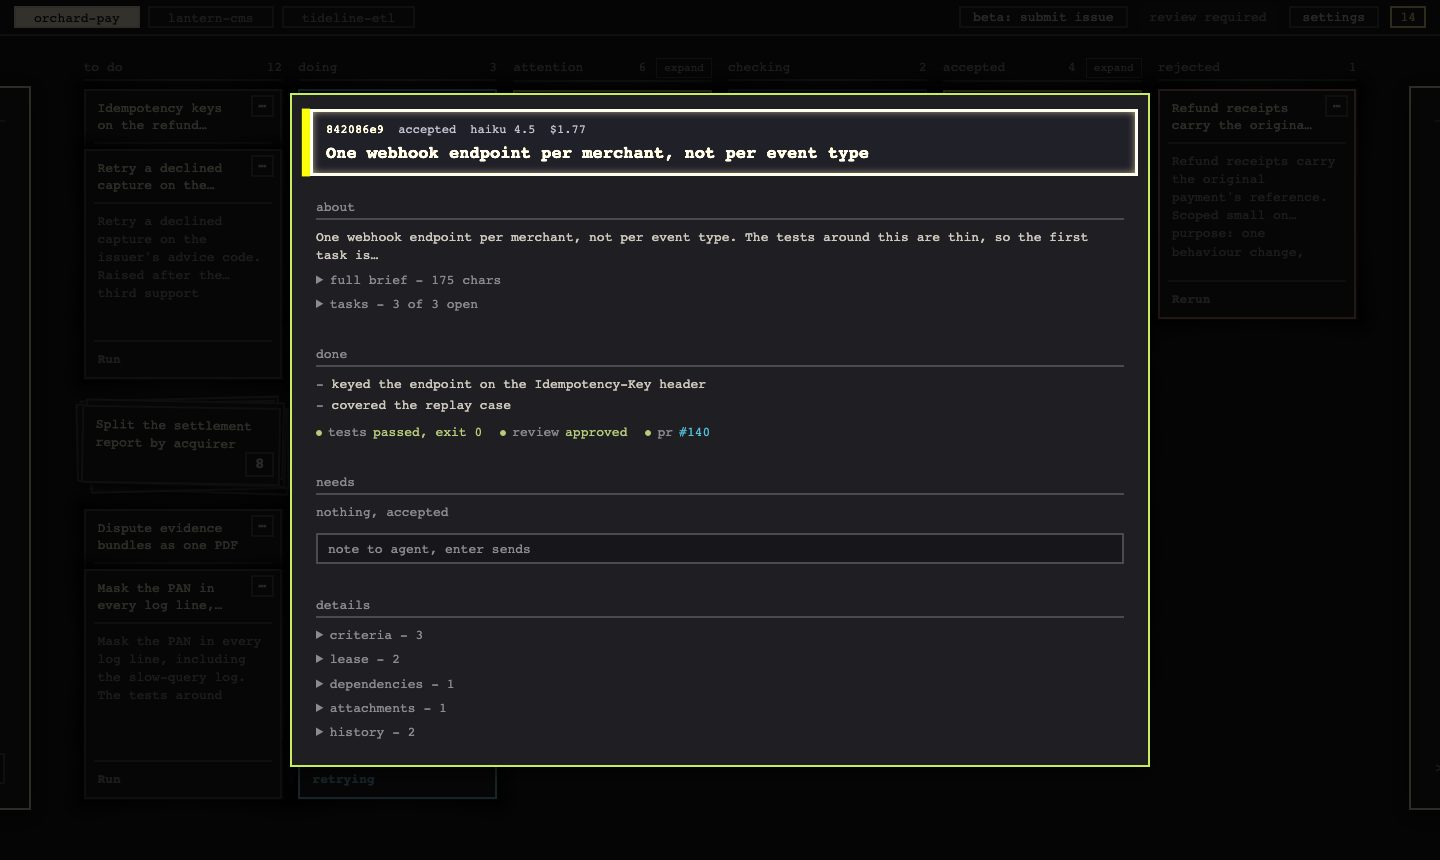
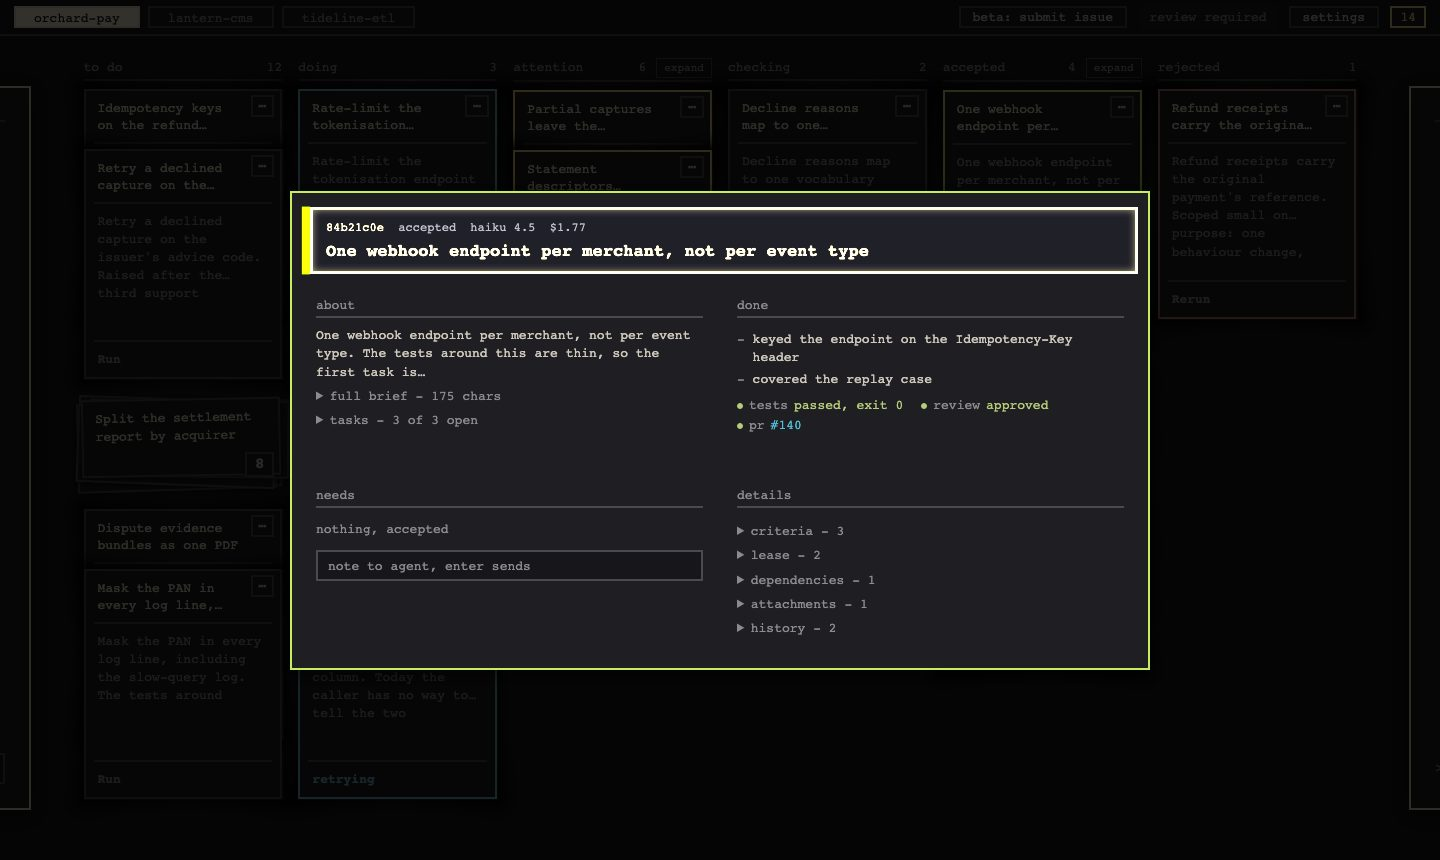
laid the open card out as a 2x2 matrix, and space pops the focused section out over the card
Claude-Session: https://claude.ai/code/session_01URWV3ht5P45VqmJX8jxDtj

diff --git a/smortboard/ui/card_panel.js b/smortboard/ui/card_panel.js
@@ -376,10 +376,138 @@ function wireCommentInput(input, panel, cardId) {
 // short card. from the first child's top to the last one's bottom, as laid out - offsetTop and
 // offsetHeight, since the panel opens under a transform that scales any rect read mid-animation
 function fitCardPanel(panel) {
+  markClippedSections(panel);
   const kids = [...panel.children];
   if (!panel._expander || !kids.length) return;
   const first = kids[0], last = kids[kids.length - 1];
   panel._expander.fit(last.offsetTop + last.offsetHeight - first.offsetTop);
+}
+
+// a matrix cell is one height, so a longer section is cut short: it fades out and its label says
+// space shows the rest
+function markClippedSections(panel) {
+  panel.querySelectorAll('.card-section:not([data-section="title"])').forEach(section => {
+    const value = section.querySelector('.section-value');
+    const clipped = !!value && value.scrollHeight > value.clientHeight + 1;
+    section.classList.toggle('section-clipped', clipped);
+  });
+}
+
+// ---- a section popped out over the card ---------------------------------------------------------
+// space on a focused cell opens that section whole, folds open, in ui_base's expander grown out of
+// the cell and fitted to its content. space or escape closes it back onto the cell. the needs cell
+// brings its note field along: / types into it, enter sends, the same as on the card
+let sectionPopout = null; // {section, expander, input} while one is open
+
+function popoutBodyHtml(section) {
+  const body = document.createElement('div');
+  body.innerHTML = section.innerHTML;
+  body.querySelectorAll('details').forEach(fold => { fold.open = true; });
+  // the lead is the brief's first words - with the whole brief open under it, it only repeats
+  const brief = [...body.querySelectorAll('details.card-fold')]
+    .find(fold => fold.querySelector('summary')?.textContent.startsWith('full brief'));
+  if (brief) body.querySelector('.card-lead')?.remove();
+  return body.innerHTML;
+}
+
+function wireSectionPopout(section, cardPanel, cardId) {
+  const label = section.querySelector('.field-label');
+  if (!label || section.dataset.section === 'title') return;
+  let body = null;
+  // the label is the expander's strip: the popout grows out of it, and a click on it opens it
+  const expander = makeExpander(label, {
+    origin: 'rect',
+    expandedRatio: {w: 1, h: 1},
+    onOpen: pop => {
+      [...cardPanel.classList].filter(c => c.startsWith('card-') && c !== 'card-panel')
+        .forEach(c => pop.classList.add(c));
+      pop.classList.add('section-popout');
+      body = document.createElement('div');
+      body.className = `card-panel section-popout-body card-section`;
+      body.dataset.section = section.dataset.section;
+      body.innerHTML = popoutBodyHtml(section);
+      pop.appendChild(body);
+      const input = body.querySelector('.comment-input');
+      if (input) wirePopoutInput(input, cardPanel, cardId);
+      body.querySelectorAll('.comment-cta').forEach(btn => {
+        btn.addEventListener('click', () => {
+          if (btn.dataset.ctaAction === 'run') runFocusedCard(cardId);
+          else if (btn.dataset.ctaAction === 'stop') stopFocusedCard(cardId);
+        });
+      });
+      body.querySelectorAll('details').forEach(fold => fold.addEventListener('toggle', fitPopout));
+      sectionPopout = {section, expander, input};
+      document.addEventListener('keydown', onPopoutKey, true);
+      fitPopout();
+      pop.tabIndex = -1;
+      pop.focus();
+    },
+    onClose: () => {
+      document.removeEventListener('keydown', onPopoutKey, true);
+      sectionPopout = null;
+      if (section.isConnected) section.focus();
+    },
+  });
+  function fitPopout() {
+    if (body) expander.fit(body.offsetHeight);
+  }
+  section._popout = expander;
+}
+
+function wirePopoutInput(input, cardPanel, cardId) {
+  input.addEventListener('keydown', evt => {
+    if (evt.code !== 'Enter') return;
+    evt.preventDefault();
+    const text = input.value.trim();
+    if (!text) return;
+    api(`/api/cards/${cardId}/comments`, {
+      method: 'POST', headers: {'Content-Type': 'application/json'},
+      body: JSON.stringify({author: 'operator', body: text}),
+    }).then(() => {
+      sectionPopout?.expander.close();
+      openCardPanel(cardPanel, cardId);
+    });
+  });
+}
+
+// CAPTURE PHASE, AHEAD OF THE CARD. the card's own expander closes on escape and the board closes the
+// card on space, both on the document - a popout open over the card answers first and stops there
+function onPopoutKey(evt) {
+  if (!sectionPopout || withModifier(evt)) return;
+  const typing = evt.target.matches?.('input, textarea');
+  const {expander, input} = sectionPopout;
+  if (evt.code === 'Escape') {
+    evt.preventDefault();
+    evt.stopImmediatePropagation();
+    // out of the note field first, then out of the popout
+    if (typing) evt.target.closest('.expand-panel')?.focus();
+    else expander.close();
+    return;
+  }
+  if (typing) return;
+  if (evt.code === 'Space') {
+    evt.preventDefault();
+    evt.stopImmediatePropagation();
+    expander.close();
+  } else if (evt.code === 'Slash' && input) {
+    evt.preventDefault();
+    evt.stopImmediatePropagation();
+    input.focus();
+  }
+}
+
+// space on a focused cell pops it out; on the head band it still closes the card, as it always did
+function wireSectionPopoutKey(panel) {
+  if (panel._popoutKeyWired) return;
+  panel._popoutKeyWired = true;
+  panel.addEventListener('keydown', evt => {
+    if (evt.code !== 'Space' || withModifier(evt) || evt.target.matches?.('input, textarea')) return;
+    const section = evt.target.closest?.('.card-section');
+    if (!section || !section._popout) return;
+    evt.preventDefault();
+    evt.stopPropagation();
+    section._popout.open();
+  });
 }
 
 async function openCardPanel(panel, cardId) {
@@ -403,6 +531,8 @@ async function openCardPanel(panel, cardId) {
   }
 
   wireCardSectionNav(panel);
+  wireSectionPopoutKey(panel);
+  panel.querySelectorAll('.card-section').forEach(section => wireSectionPopout(section, panel, cardId));
   // THE OPEN CARD TAKES THE KEYBOARD. focus used to stay on the strip behind the panel, so up and
   // down did nothing here and the sections were only reachable by / and then escape
   focusFirstCardSection(panel);
@@ -425,9 +555,9 @@ async function openCardPanel(panel, cardId) {
   if (openCard && openCard.cardId === cardId) Object.assign(openCard, {input});
 }
 
-// ---- the open card: a head band, then about -> done -> needs down the left and the card's own
-// facts down the right. every section is pinned to its column (data-pin), so the reading order is
-// the same on every card rather than whatever the shortest-column rule makes of it
+// ---- the open card: a head band over a 2x2 matrix - about and needs on the left, done and the
+// card's own facts on the right. every section is pinned to its column (data-pin), and every cell
+// has one height, so the two rows line up
 
 // one section per field: data-section names it for the layouts, .section-value holds what it says.
 // focus-glow is the board card's own focus frame (ui_base); layout.css lowers only its lift for a
@@ -631,7 +761,7 @@ function doneSectionHtml(card, outcome, block) {
   const ran = outcome.summary || outcome.tests || outcome.review || outcome.pr_url;
   if (!ran) {
     const working = card.status === 'doing' && !card.blocked_reason_code;
-    return sectionHtml('done', 'done', `<span class="empty">${working ? 'nothing yet' : 'not run yet'}</span>`, {pin: 0});
+    return sectionHtml('done', 'done', `<span class="empty">${working ? 'nothing yet' : 'not run yet'}</span>`, {pin: 1});
   }
   let body = '';
   if (block) {
@@ -645,7 +775,7 @@ function doneSectionHtml(card, outcome, block) {
   body += runRailHtml(card, outcome);
   const commit = commitFromSummary(outcome.summary);
   const label = commit ? `done<span class="field-count">commit ${escapeHtml(commit)}</span>` : 'done';
-  return sectionHtml('done', label, body, {pin: 0});
+  return sectionHtml('done', label, body, {pin: 1});
 }
 
 // what an open card that is NOT waiting on the operator says under needs
@@ -742,7 +872,7 @@ function detailsSectionHtml(card) {
   if (attachments.length) parts.push(fold('attachments', attachments.length, `<ul class="card-lines">${attachments.join('')}</ul>`));
   const comments = card.comments || [];
   if (comments.length) parts.push(fold('history', comments.length, `<ul class="card-history">${comments.map(historyRowHtml).join('')}</ul>`));
-  return sectionHtml('details', 'details', parts.join(''), {pin: 0});
+  return sectionHtml('details', 'details', parts.join(''), {pin: 1});
 }
 
 function cardPanelHtml(card, outcome) {
@@ -750,9 +880,10 @@ function cardPanelHtml(card, outcome) {
   const block = parseWorkerBlock(run.summary);
   const comments = card.comments || [];
   const hasBoardNote = comments.some(c => c.author === BOARD_COMMENT_AUTHOR);
-  // BARE BONES, ONE COLUMN (operator, 2026-09-23): about, done, needs, and the facts folded away
+  // A 2x2 MATRIX (operator, 2026-09-24): about | done over needs | details, every cell one height.
+  // a cell that holds more than it shows pops out whole on space (openSectionPopout)
   return `
-    <div class="card-sections" data-columns="1">
+    <div class="card-sections" data-columns="2">
       ${cardHeadHtml(card, run)}
       ${aboutSectionHtml(card)}
       ${doneSectionHtml(card, run, block)}

diff --git a/smortboard/ui/layout.css b/smortboard/ui/layout.css
@@ -270,7 +270,26 @@ body {
    2026-09-23: the tinted grounds read worse than names and dividers). padded so the focus frame
    has room around the text */
 .card-panel .card-section:not([data-section="title"]) { padding: 6px 10px 10px; }
-.card-panel .card-section:not([data-section="title"]) > .field-label {
+.card-panel:not([class*="panel-layout-"]) .card-sections > .card-section:not([data-section="title"]) {
+  /* THE MATRIX: every cell one height so the two rows line up; the value takes what the label leaves */
+  height: 13.5em; display: flex; flex-direction: column;
+}
+.card-panel:not([class*="panel-layout-"]) .card-sections > .card-section:not([data-section="title"]) > .section-value {
+  flex: 1 1 auto; min-height: 0; overflow: hidden;
+}
+/* more than the cell shows: the value fades out and the label says space shows the rest. a mask on
+   the value, not an overlay on the cell - the focus ring is the cell's own inset shadow */
+.card-panel .card-section.section-clipped > .section-value {
+  mask-image: linear-gradient(to bottom, #000 calc(100% - 2.2em), transparent);
+}
+.card-panel .card-section.section-clipped > .field-label::after {
+  content: 'space: all'; color: var(--text-dim); font-size: 0.85em; margin-left: auto;
+}
+/* the popout hugs its section: the card's own 100% height would make fit() measure the whole box */
+.expand-panel.section-popout > .section-popout-body { height: auto; overflow: visible; padding: 18px 24px; }
+.expand-panel.section-popout { overflow: auto; }
+.card-panel .card-section:not([data-section="title"]) > .field-label,
+.section-popout-body > .field-label {
   padding: 2px 0; margin-bottom: 8px; border-bottom: 2px solid var(--grey-border);
 }
 /* A FOCUSED SECTION WEARS THE BOARD CARD'S OWN FRAME (operator, 2026-09-23, the approved mockup;

diff --git a/smortboard/ui/shortcuts.js b/smortboard/ui/shortcuts.js
@@ -14,7 +14,7 @@ const BINDINGS = [
   {code: 'ArrowLeft', label: 'left', action: 'move focus left', group: 'cards'},
   {code: 'ArrowRight', label: 'right', action: 'move focus right', group: 'cards'},
   {code: 'Enter', label: 'enter', action: 'open the focused card', group: 'cards'},
-  {code: 'Space', label: 'space', action: 'open the focused card, or close the open one', group: 'cards'},
+  {code: 'Space', label: 'space', action: 'open the focused card, or close it. on an open card: pop the focused section out, or back', group: 'cards'},
   {code: 'Escape', label: 'esc', action: 'one level back: input -> panel -> closed', group: 'cards'},
   {code: 'KeyR', label: 'r', action: 'run the focused card, with confirmation', group: 'cards'},
   {code: 'KeyK', label: 'k', action: 'stop the focused card if it is running', group: 'cards'},

diff --git a/docs/reference/keyboard.md b/docs/reference/keyboard.md
@@ -41,7 +41,7 @@ here.
 | `left` | move focus left |
 | `right` | move focus right |
 | `enter` | open the focused card |
-| `space` | open the focused card, or close the open one |
+| `space` | open the focused card, or close it. on an open card: pop the focused section out, or back |
 | `esc` | one level back: input -> panel -> closed |
 | `r` | run the focused card, with confirmation |
 | `k` | stop the focused card if it is running |
